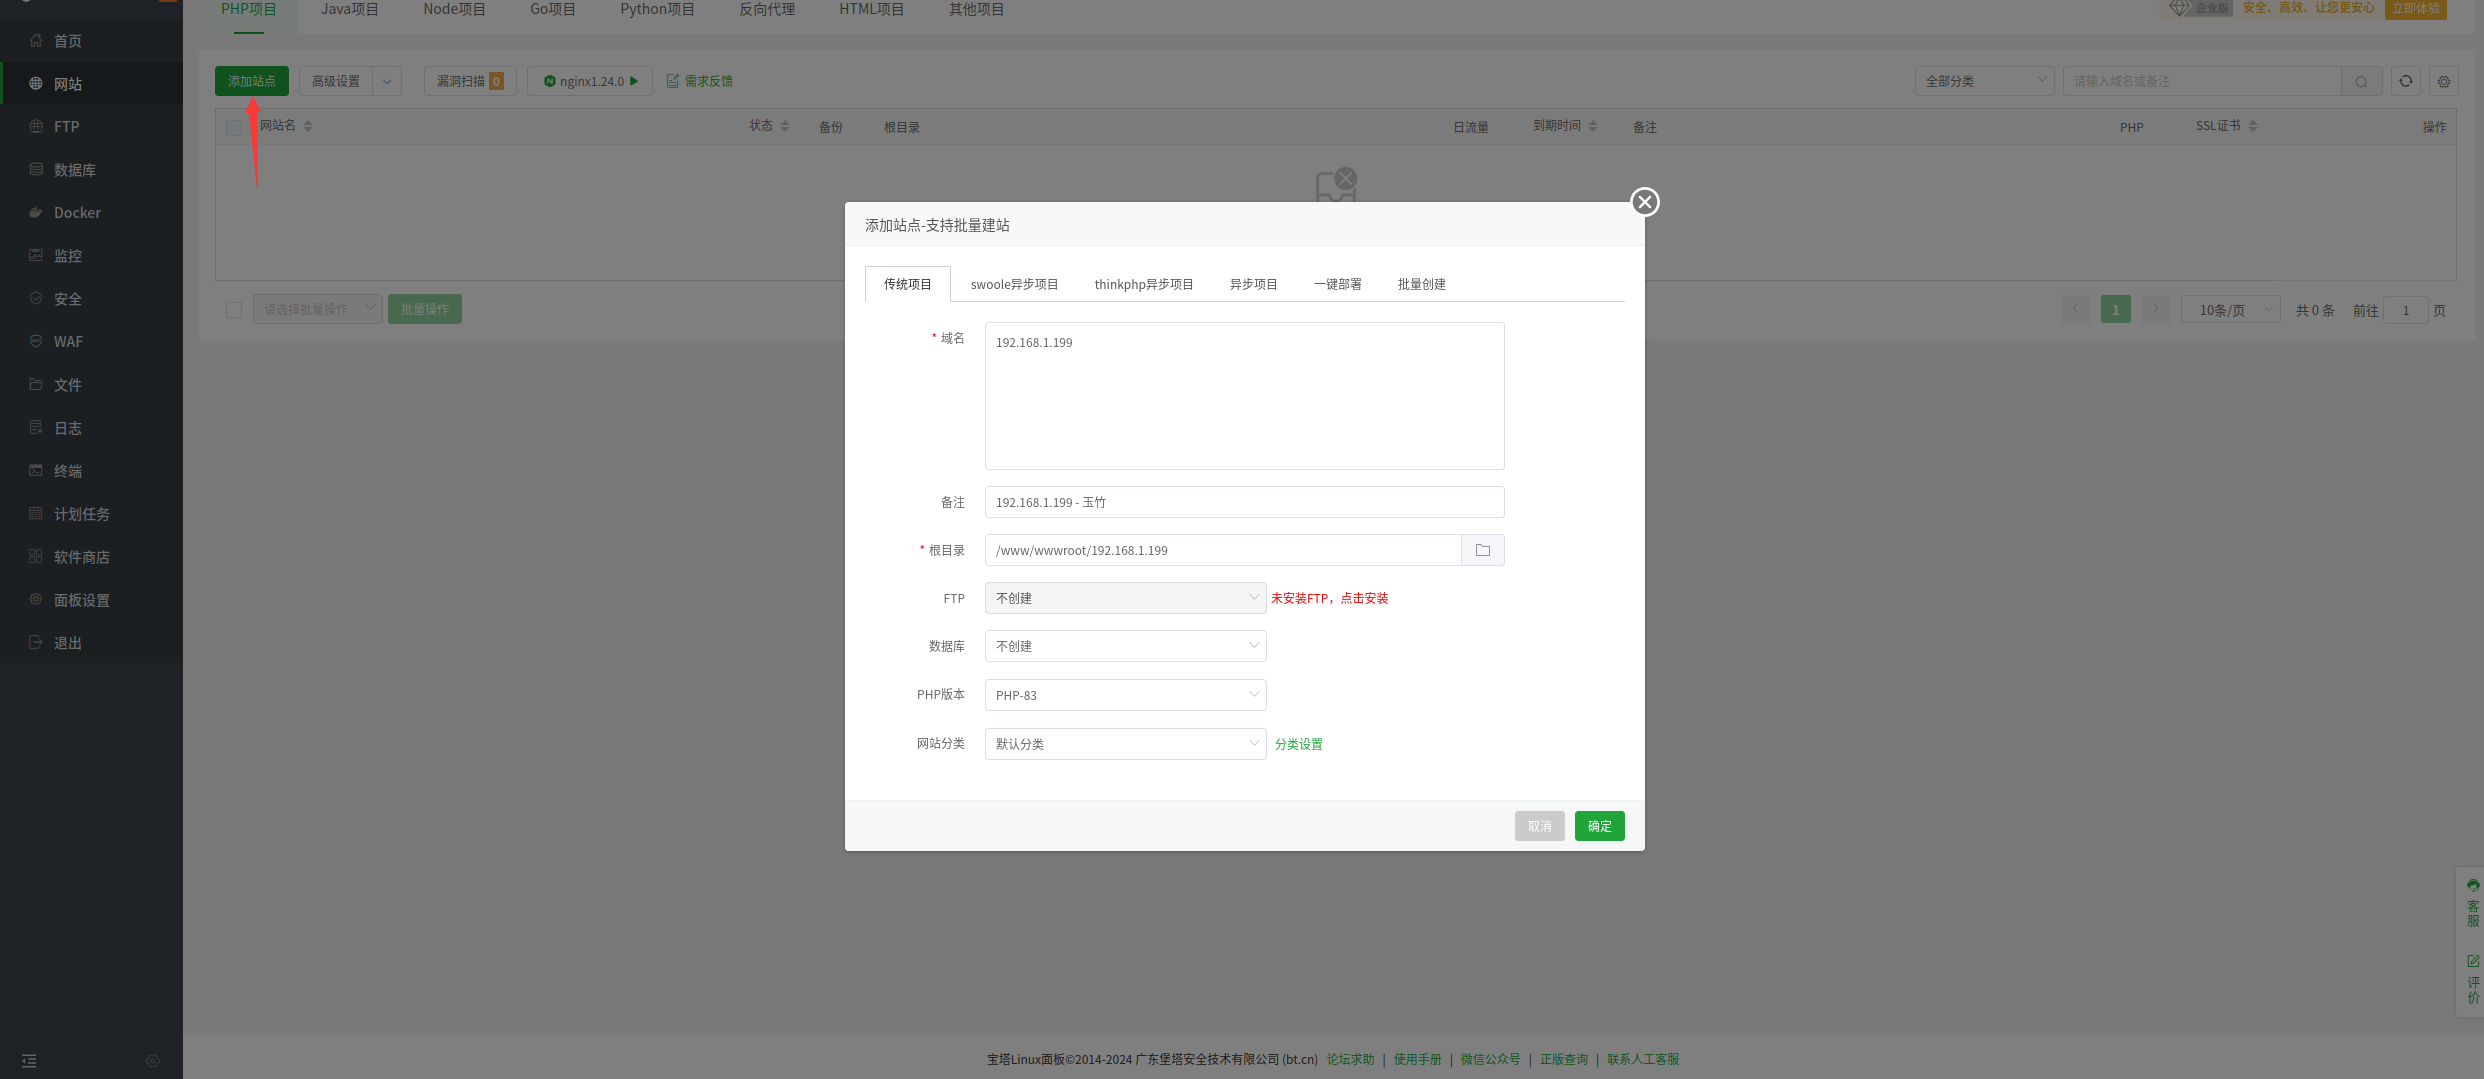
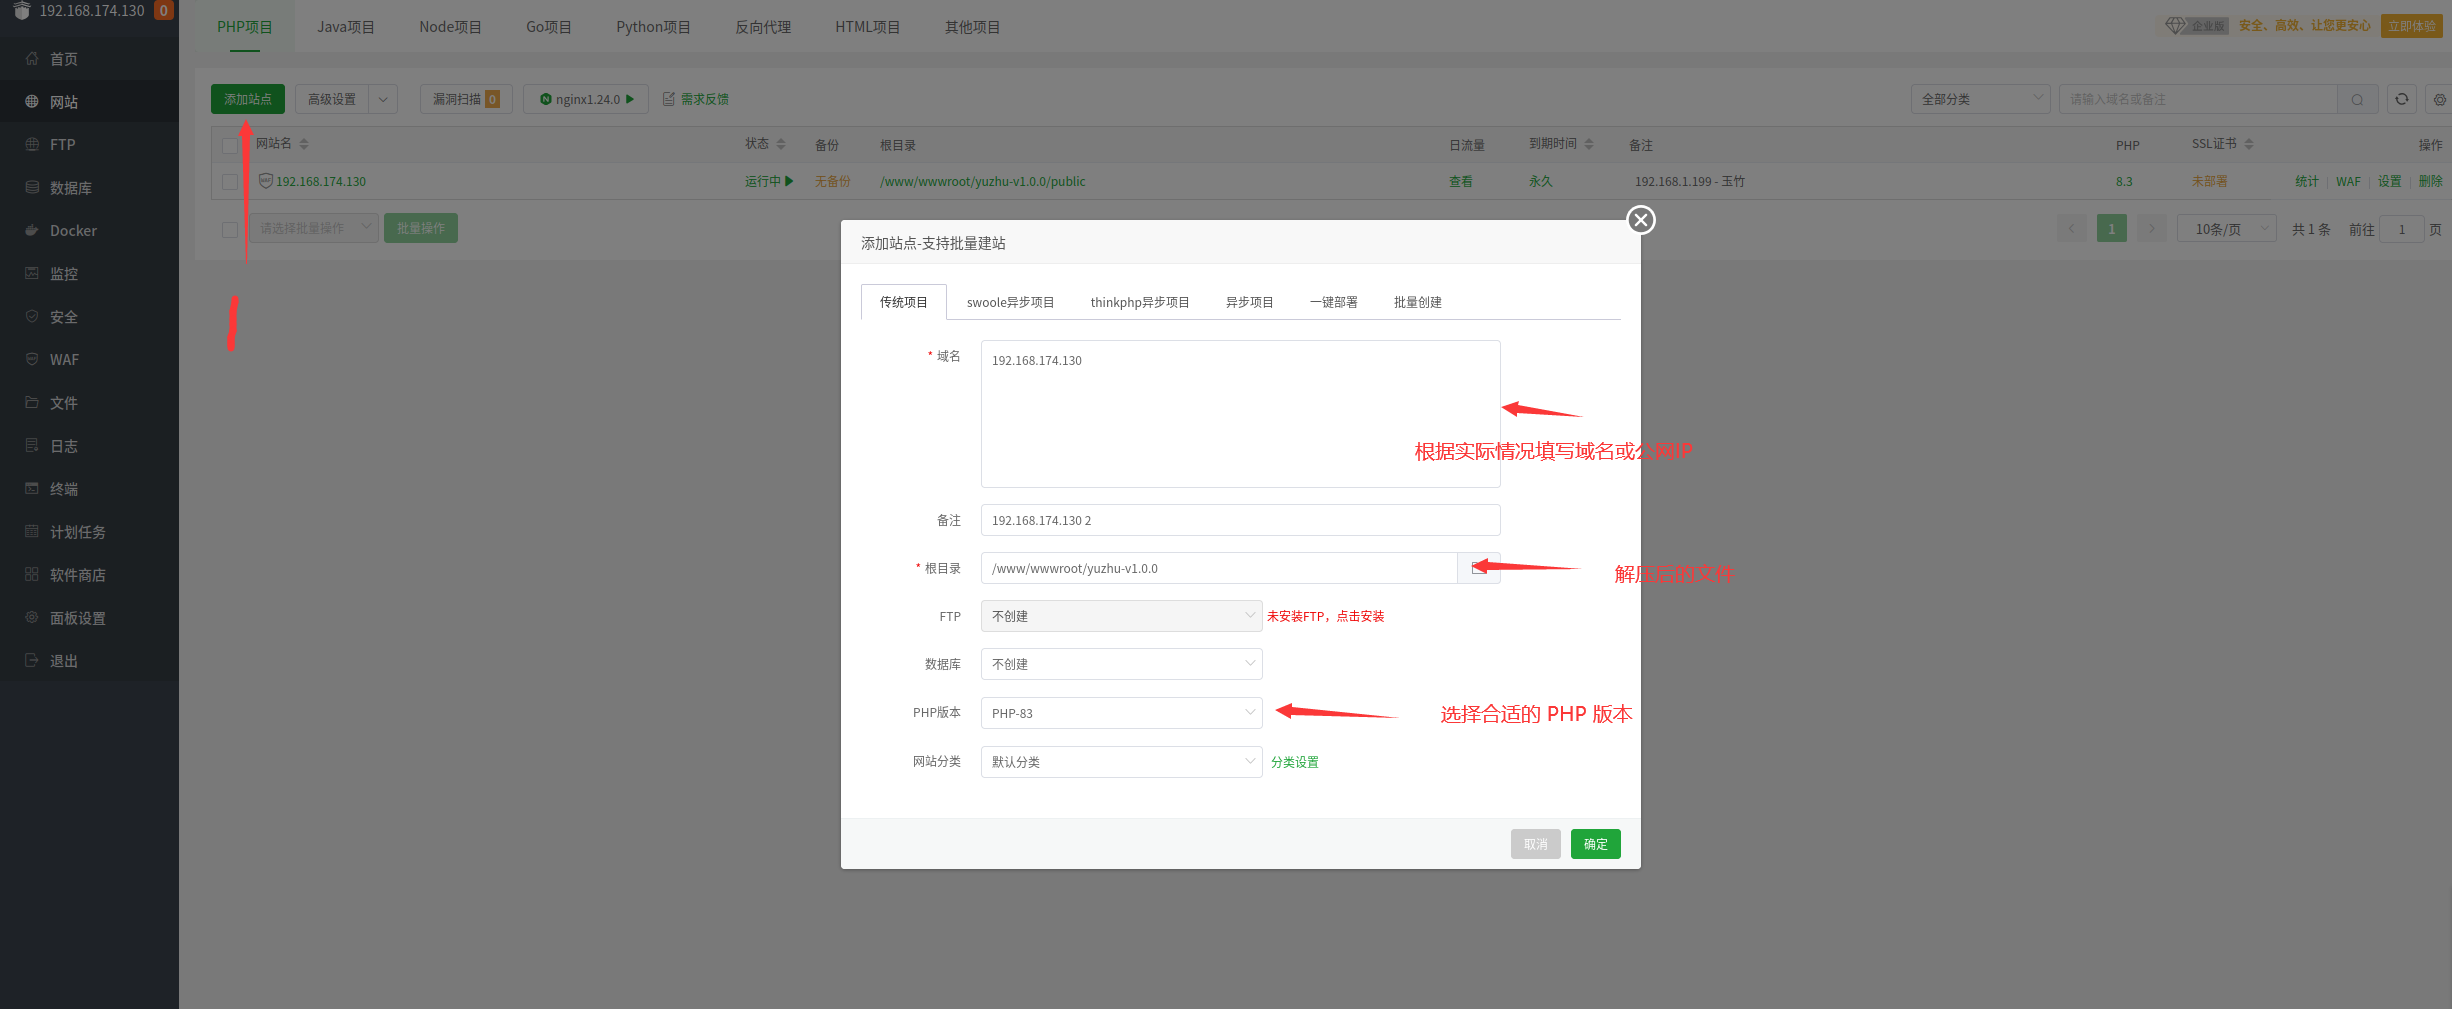
初步完成宝塔面板部署文档

diff --git a/docs/guide/bt-deploy.md b/docs/guide/bt-deploy.md
@@ -24,16 +24,12 @@
 
 ![](../images/bt18.png)
 
-域名那里有域名填写域名，没有的话填写公网 IP。
-
-根目录选择到 `public` 目录：
-
-![](../images/bt19.png)
-
-数据库选择 MySql, 用户名、账号填写上一步创建的。
-
 
 一些设置：
+
+设置运行目录：
+
+![](../images/bt19.png)
 
 
 ![](../images/bt21.png)
@@ -68,9 +64,156 @@ location ~ \.php$ {
 ![](../images/bt22.png)
 
 
-
 一点修改：
+
+复制 `.env.example` 文件，修改名称为 `.env`，编辑 `.env` 文件：
+
+
+![](../images/bt25.png)
+
+
+修改权限：
 
 ![](../images/bt24.png)
 
-![](../images/bt25.png)
+
+需要修改的内容：
+
+```
+APP_NAME=玉竹 #修改为自己的博客名称，若中间有空格、标点符号，请用英文引号（""）包裹
+APP_ENV=production
+
+
+APP_URL=http://127.0.0.1 # 修改为自己的域名或公网IP
+ASSET_URL=http://127.0.0.1 # 修改为自己的域名或公网IP
+
+
+MAIL_MAILER=smtp
+MAIL_HOST=mailhog 
+MAIL_PORT=1025
+MAIL_USERNAME=null
+MAIL_PASSWORD=null
+MAIL_ENCRYPTION=null
+MAIL_FROM_ADDRESS="hello@example.com"
+
+SESSION_DRIVER=redis
+
+QUEUE_CONNECTION=redis
+
+CACHE_STORE=redis
+
+```
+
+邮箱配置参考 [使用 QQ 邮箱作为邮箱服务](deploy#使用-qq-邮箱作为邮箱服务)。
+
+登入终端，运行命令：
+
+
+![](../images/bt26.png)
+
+
+```shell
+cd /www/wwwroot/yuzhu-v1.0.0 # 修改为实际的目录
+```
+
+```shell
+php artisan key:generate
+```
+
+遇到权限问题，可使用 `sudo php artisan key:generate` 命令。
+
+创建软软连接：
+
+```shell
+php artisan storage:link
+```
+
+
+初始化数据库：
+
+```shell
+php artisan migrate --seed
+```
+
+![](../images/bt30.png)
+
+
+初始化管理员：
+
+```shell
+php artisan yuzhu:init-admin
+```
+
+![](../images/bt31.png)
+
+
+删除安装过程中因报错等生成的 Log 文件，以避免出现权限问题。
+
+![](../images/bt33.png)
+
+
+
+访问：
+
+![](../images/bt32.png)
+
+
+管理后台在域名后添加 `/admin` 访问即可。
+
+
+以下操作在终端完成：
+
+安装 `supervisor`:
+
+```shell
+sudo apt install supervisor
+```
+
+```shell
+sudo vi /etc/supervisor/conf.d/yuzhu-horizon.conf
+```
+
+复制如下内容，注意修改为自己的目录，
+
+```
+[program:yuzhu-horizon]
+process_name=%(program_name)s
+command=php /www/wwwroot/yuzhu-v1.0.0/artisan horizon
+autostart=true
+autorestart=true
+user=www
+redirect_stderr=true
+stdout_logfile=/www/wwwroot/yuzhu-v1.0.0/storage/logs/horizon.log
+stopwaitsecs=3600
+```
+
+鼠标右键粘贴，然后输入 `:wq` 保存。
+
+
+```shell
+sudo supervisorctl reread
+
+sudo supervisorctl update
+
+sudo supervisorctl start yuzhu-horizon:*
+```
+
+一些优化：
+
+```shell
+php artisan route:cache
+php artisan view:cache
+php artisan config:cache
+```
+
+
+设置定时任务：
+
+![](../images/bt40.png)
+
+```
+cd /www/wwwroot/yuzhu-v1.0.0 && php artisan schedule:run
+```
+
+注意设为自己实际的目录
+

diff --git a/docs/guide/deploy.md b/docs/guide/deploy.md
@@ -76,11 +76,48 @@ MAIL_PASSWORD=null
 MAIL_ENCRYPTION=null
 MAIL_FROM_ADDRESS="hello@example.com"
 
+
+SESSION_DRIVER=redis
+
+QUEUE_CONNECTION=redis
+
+CACHE_STORE=redis
+
 ```
 
+### 使用 QQ 邮箱作为邮箱服务
+
+如果没有其他邮箱服务，可以使用 QQ 邮箱，登录 QQ 邮箱，选择 【设置】 - 【账号】，【POP3/IMAP/SMTP/Exchange/CardDAV/CalDAV服务】 ：
+
+![](../images/bt35.png)
+
+![](../images/bt36.png)
+
+如果已开启，在点击 【管理服务】 - 【生成授权码】：
+
+![](../images/bt37.png)
+
+
+示例配置：
+
+```
+MAIL_MAILER=smtp
+MAIL_HOST=smtp.qq.com 
+MAIL_PORT=465
+MAIL_USERNAME="10000@qq.com"
+MAIL_PASSWORD=授权码
+MAIL_ENCRYPTION=ssl
+MAIL_FROM_ADDRESS="10000@qq.com"
+```
+
+
+
 验证邮箱是否配置成功：
+
 ```shell
 php artisan yuzhu:check-email
+
+php artisan queue:work --queue=high,default
 ```
 
 ## 生成数据表及数据填充:

diff --git a/docs/guide/bt-env.md b/docs/guide/bt-env.md
@@ -19,6 +19,11 @@
 需要安装的扩展参考 [https://laravel.com/docs/11.x/deployment#server-requirements](https://laravel.com/docs/11.x/deployment#server-requirements)
 
 
+删除被禁用的函数：`proc_open `，`symlink`,`pcntl_*` 相关的函数
+
+![](../images/bt29.png)
+
+
 ## 服务器软件选择 `Nginx`:
 
 

diff --git a/docs/guide/faq.md b/docs/guide/faq.md
@@ -13,4 +13,3 @@
 ```shell
 php artisan vendor:publish --force --tag=livewire:assets
 ```
-这个问题是别人遇到的，解决办法也是别人说的，未曾验证。
